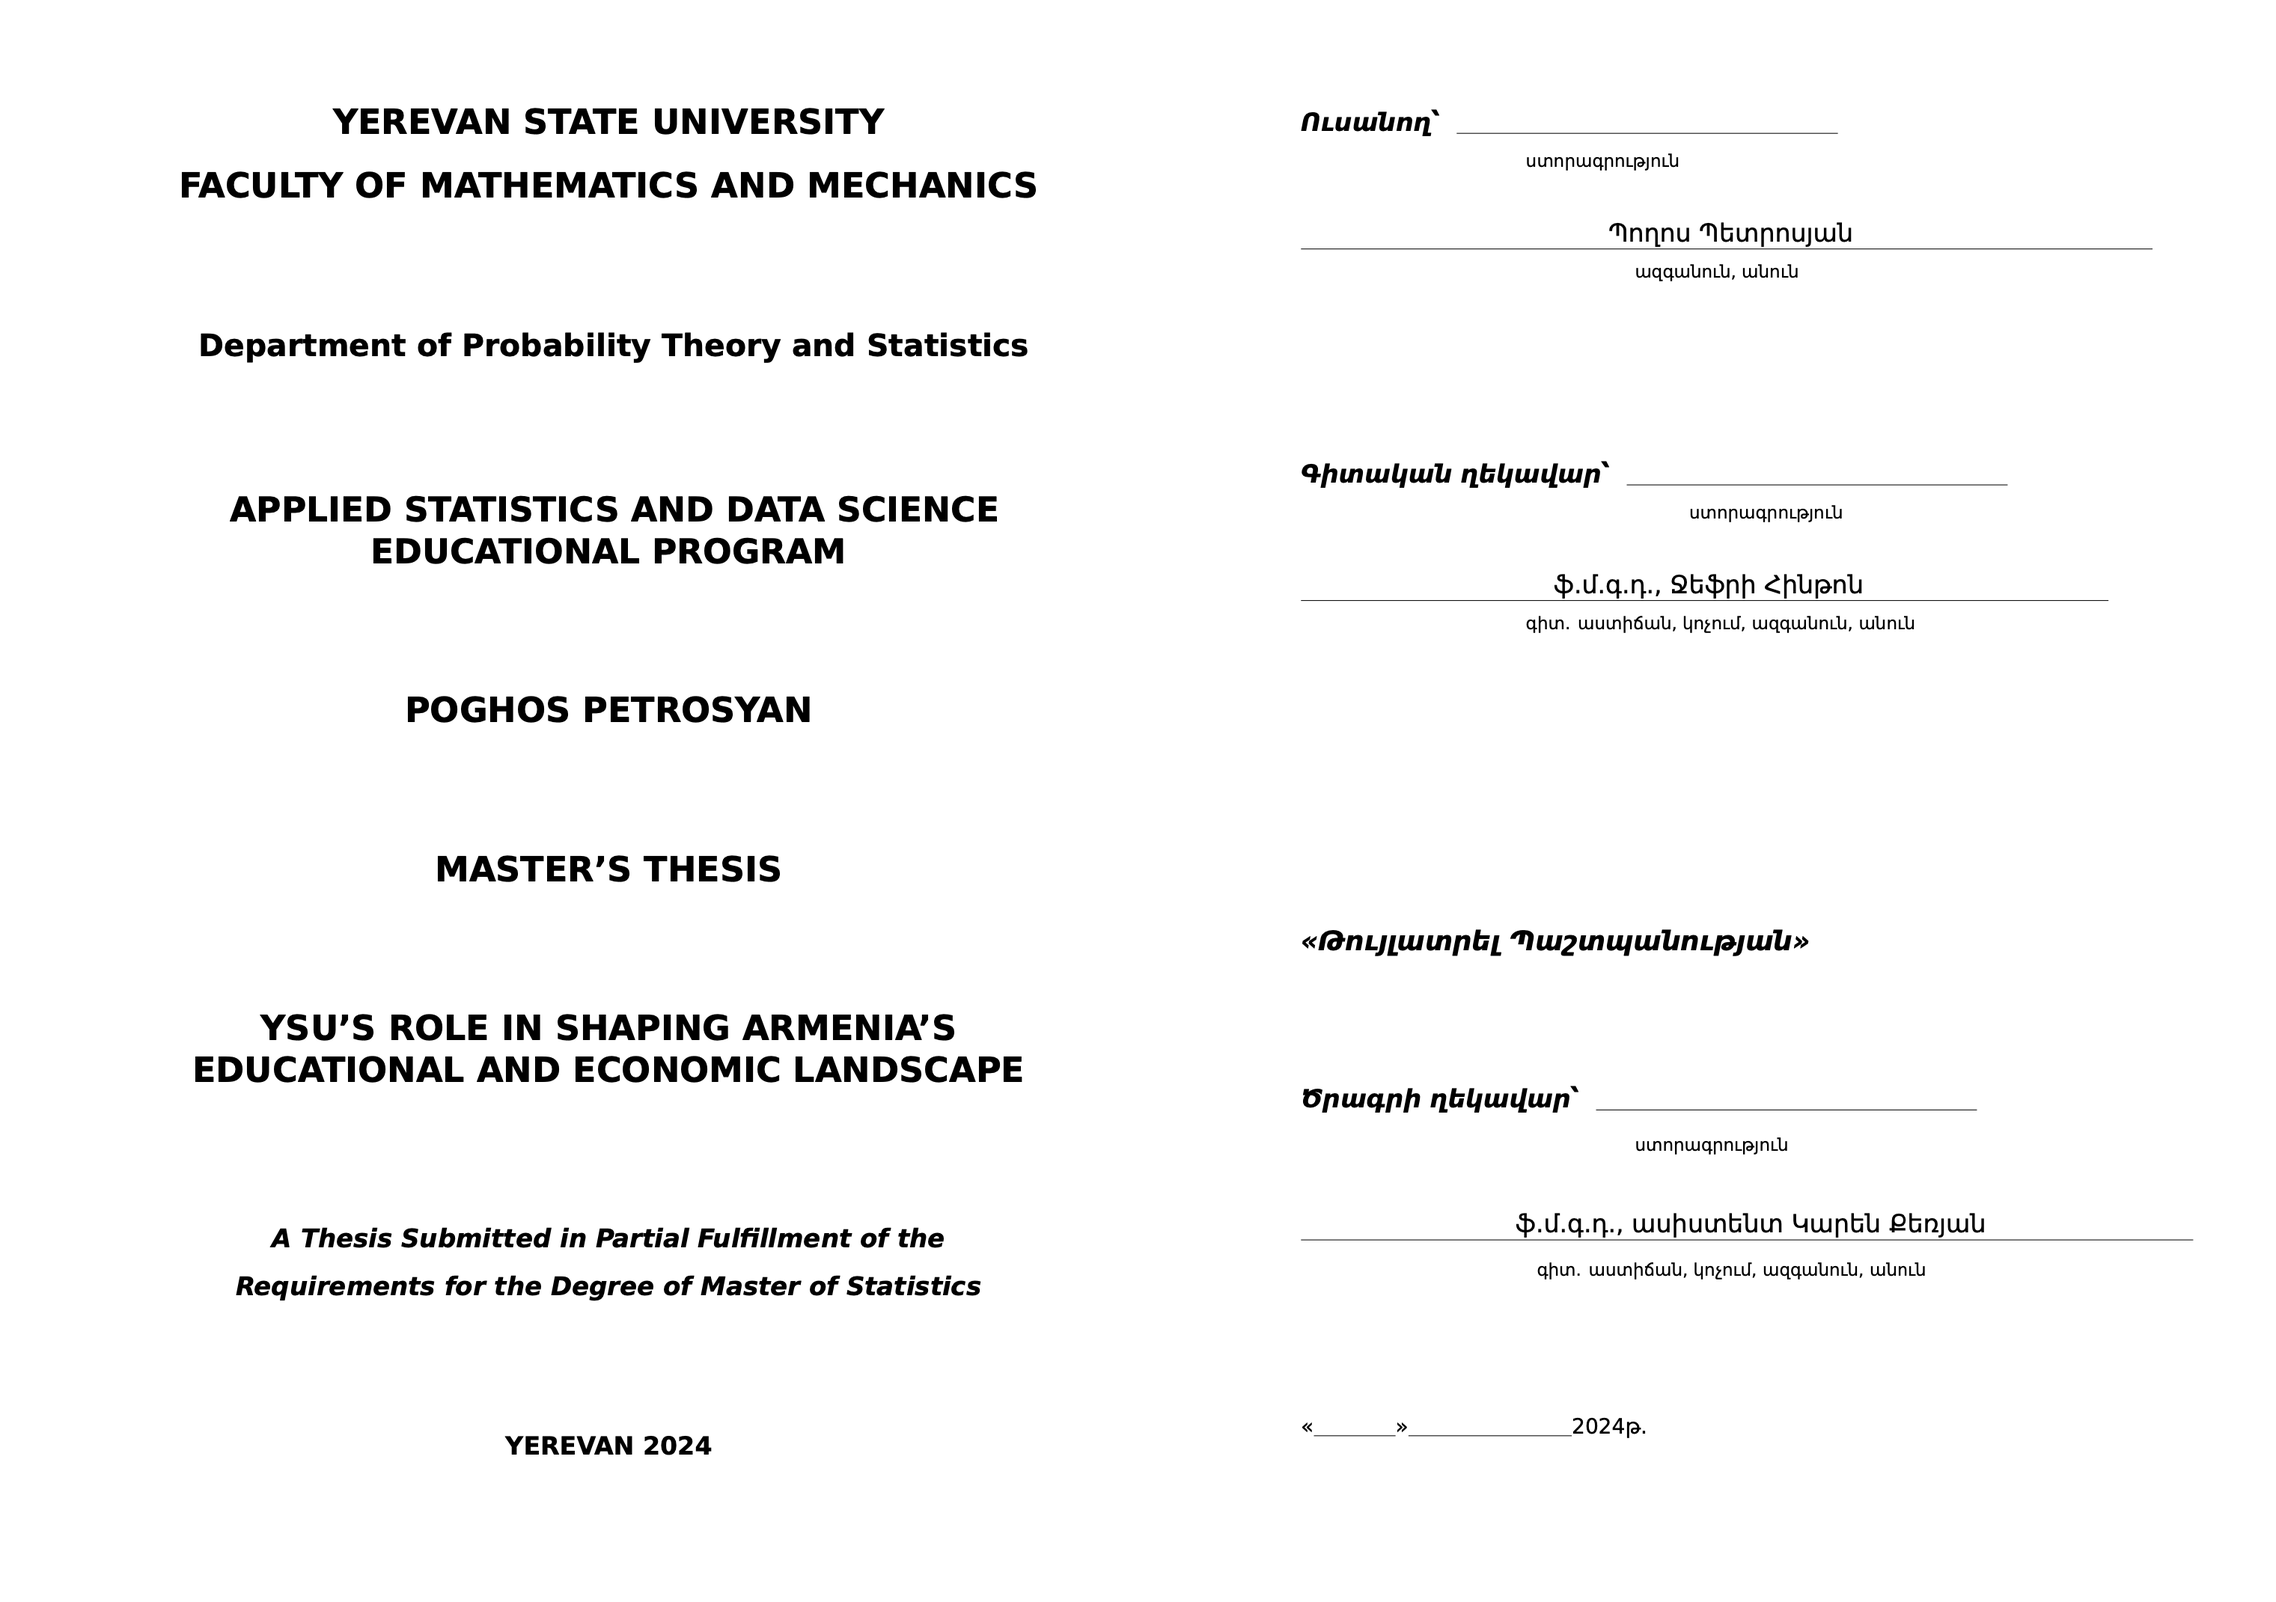
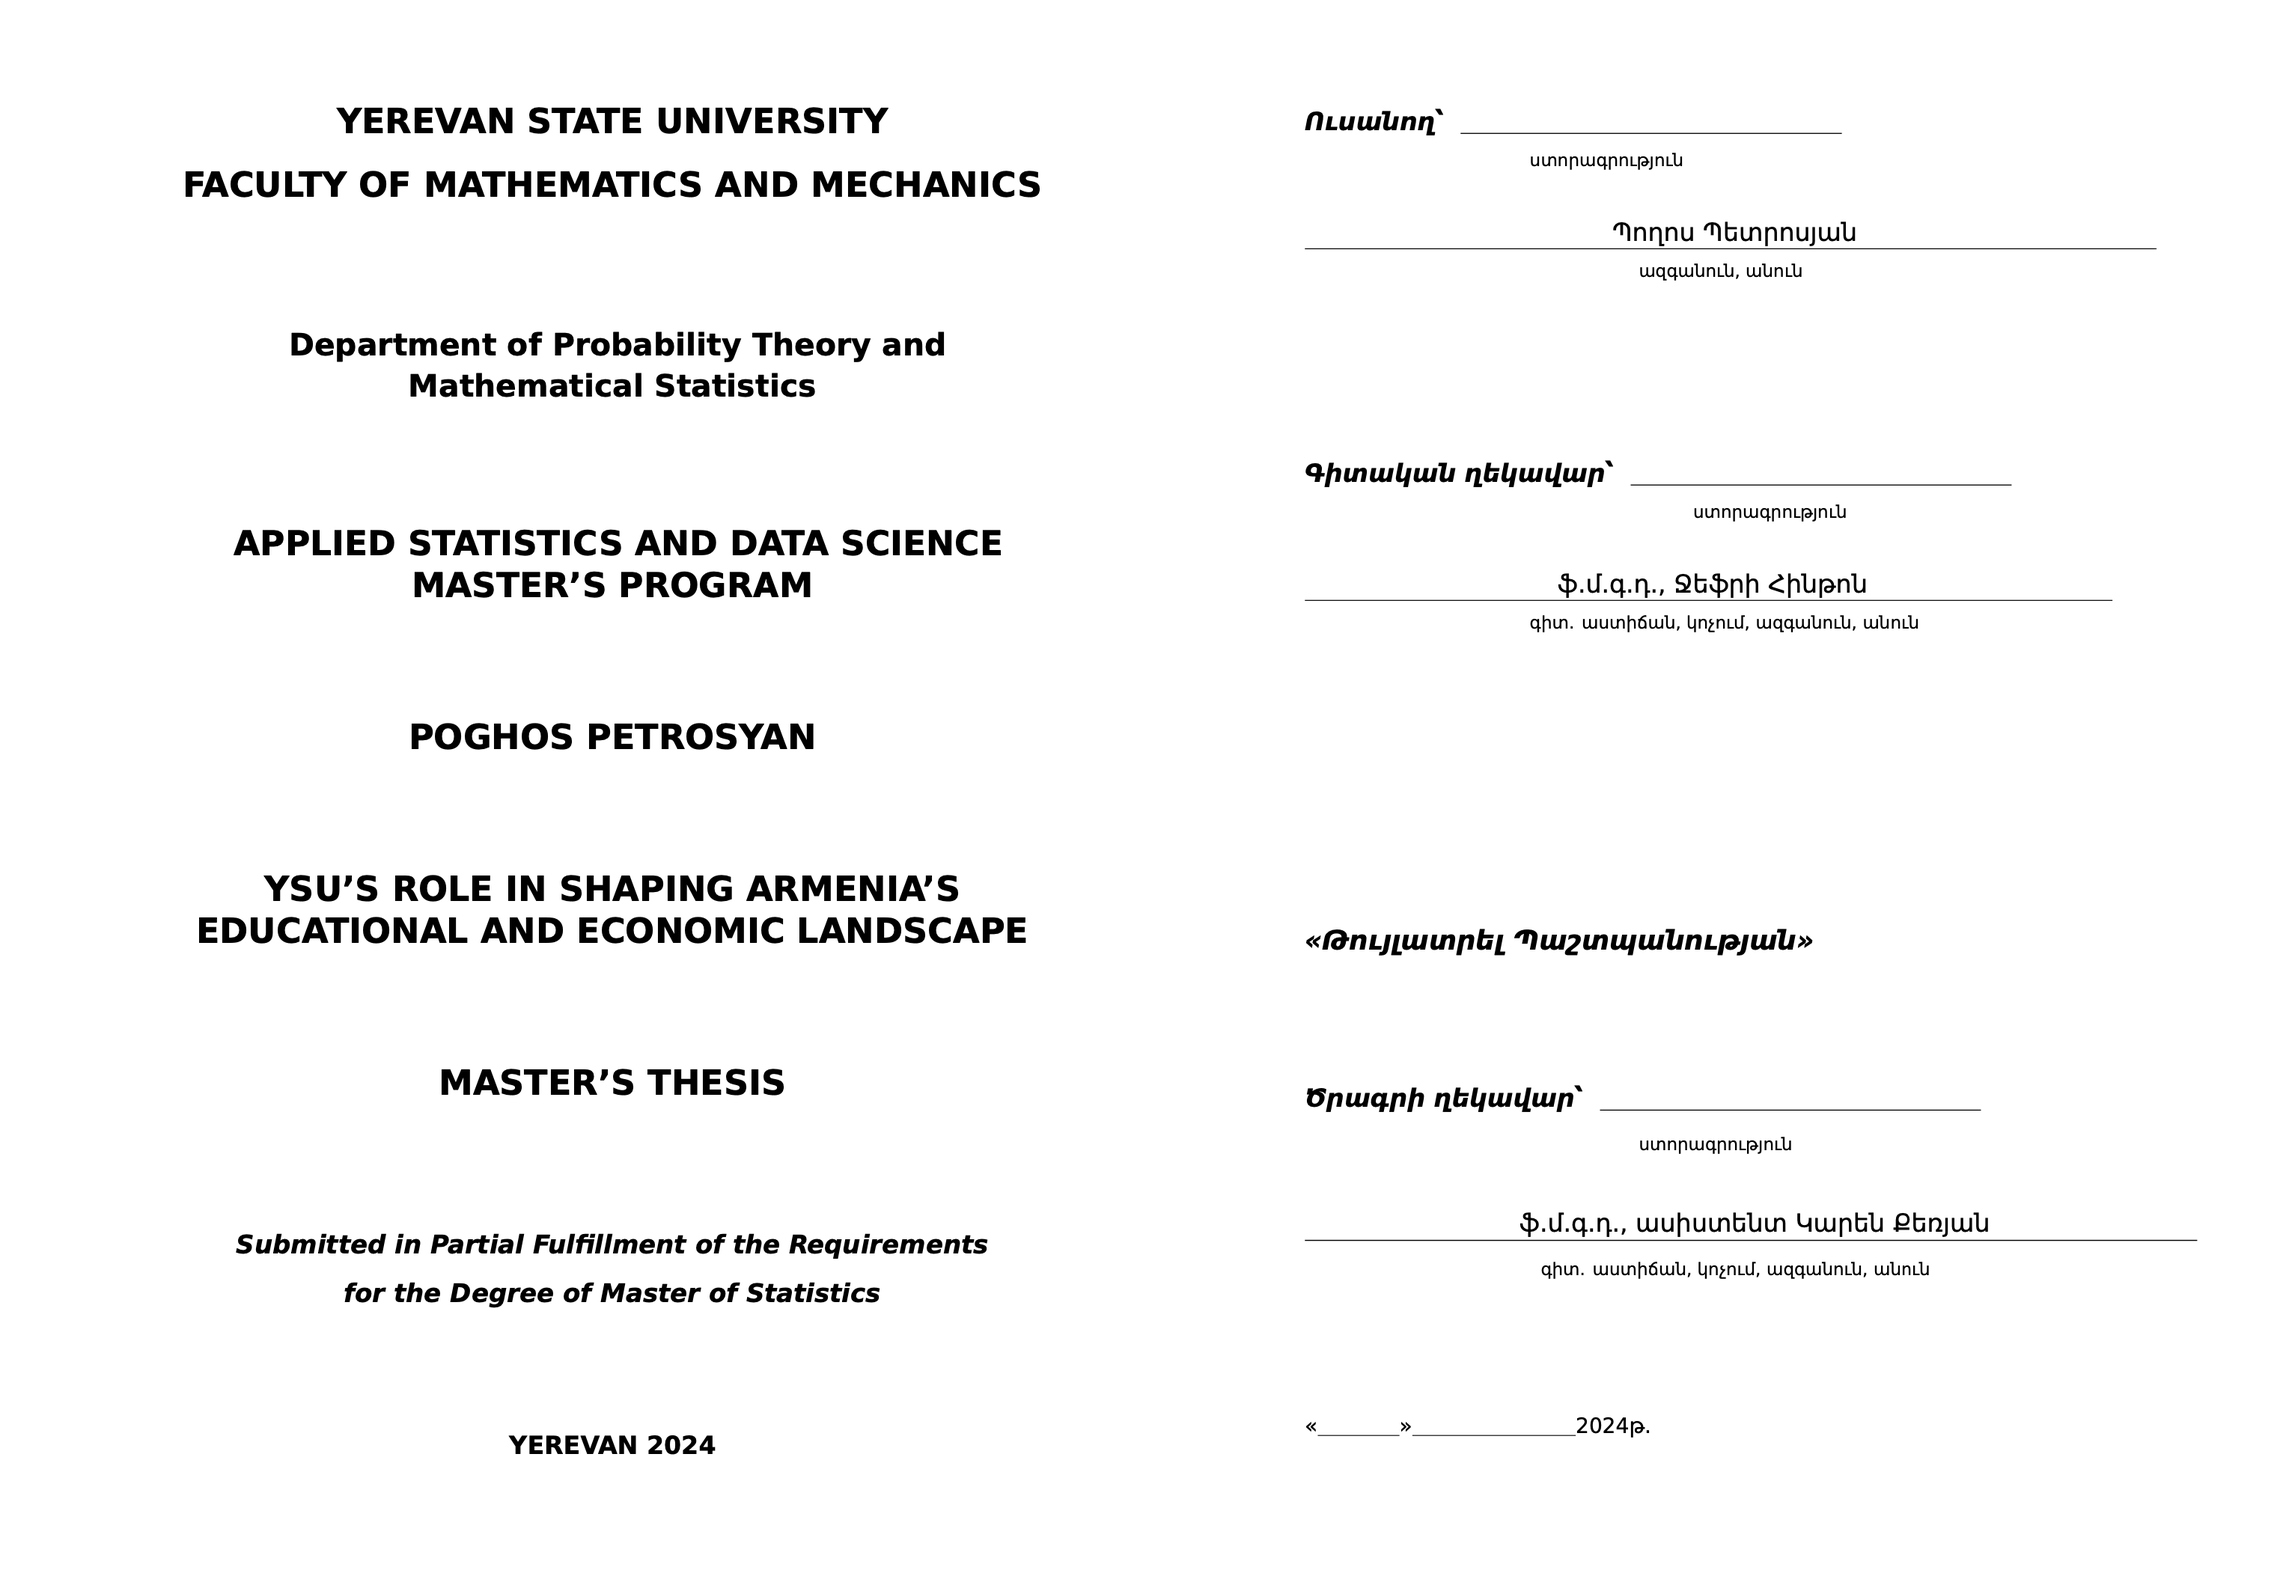
Fix title pages

diff --git a/pages/front_page_eng.tex b/pages/front_page_eng.tex
@@ -8,11 +8,11 @@
 }}\\ 
 \vfill
 
-\fontsize{16pt}{16.8pt} \textbf { {Department of Probability Theory and Statistics}}\\
+\fontsize{16pt}{16.8pt} \textbf { {Department of Probability Theory and \\ Mathematical Statistics}}\\
 
 \vfill 
    
-\fontsize{17.8pt}{16.8pt} \textbf { \uppercase{Applied Statistics and Data Science} \\ EDUCATIONAL PROGRAM}
+\fontsize{17.8pt}{16.8pt} \textbf { \uppercase{Applied Statistics and Data Science \\ Master's Program}}
 
 \vfill
 
@@ -20,16 +20,15 @@
 \fontsize{18pt}{21.6pt} \textbf{\MakeUppercase{\authorNameEng}}\\
 
 \vfill
+\fontsize{18pt}{21.6pt} \textbf{\MakeUppercase{\thesisTitleEng}}\\
+
+\vfill
 
 \fontsize{18pt}{36pt}\textbf{\uppercase{Master's Thesis
 }}\\
 
 \vfill
-\fontsize{18pt}{21.6pt} \textbf{\MakeUppercase{\thesisTitleEng}}\\
-
-\vfill
-\fontsize{13.3pt}{16.8pt} \textbf{\textit{A Thesis Submitted in Partial Fulfillment of the \\ Requirements for the Degree of
-Master of Statistics
+\fontsize{13.3pt}{16.8pt} \textbf{\textit{Submitted in Partial Fulfillment of the Requirements \\ for the Degree of Master of Statistics
 \\}}
 
 \vfill

diff --git a/pages/front_page_arm.tex b/pages/front_page_arm.tex
@@ -7,7 +7,7 @@
 \fontsize{18pt}{16.8pt}  \textbf{\uppercase{ՄԱԹԵՄԱՏԻԿԱՅԻ ԵՎ ՄԵԽԱՆԻԿԱՅԻ ՖԱԿՈՒԼՏԵՏ}}\\ 
     \vfill
 
-\fontsize{16pt}{16.8pt} \textbf { {Հավանականության տեսության և վիճակագրության ամբիոն}}\\
+\fontsize{16pt}{16.8pt} \textbf { {Հավանականությունների տեսության և \\ մաթեմատիկական վիճակագրության ամբիոն}}\\
 
 \vfill 
    
@@ -26,7 +26,7 @@
 \fontsize{18pt}{21.6pt} \textbf{\MakeUppercase{\thesisTitleArm}}\\
 
 \vfill
-\fontsize{13.3pt}{16.8pt} \textbf{\textit{«Վիճակագրություն» մասնագիտությամբ վիճակագրության \\ մագիստրոսի որակավորման աստիճանի հայցման համար
+\fontsize{13.3pt}{16.8pt} \textbf{\textit{«Վիճակագրություն» մասնագիտությամբ մագիստրոսի \\ որակավորման աստիճանի հայցման համար
 \\}}
 \vfill
 \fontsize{13pt}{15.6pt}  \textbf{ԵՐԵՎԱՆ \the\year}     

diff --git a/template.tex b/template.tex
@@ -3,7 +3,7 @@
 % ------------------------------------------------------------------------
 % Created by: Andranik Sargsyan and Ishkhanuhi Hakobyan
 % Assistance by: ChatGPT
-% Version: 0.4.0
+% Version: 0.4.1
 % Date: May 5, 2024
 % ------------------------------------------------------------------------
 
@@ -35,7 +35,7 @@
 \include{pages/abstract_page_arm}
 \include{pages/abstract_page_eng}
 
- % set font to Times New Roman for further English text
+% set font to Times New Roman for further English text
 \setmainfont{Times New Roman}
 \fontsize{12pt}{12pt}\selectfont
 
